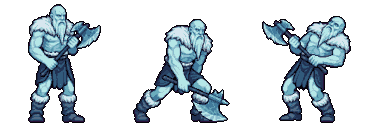
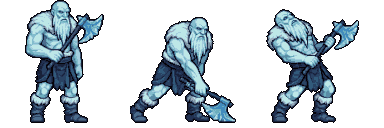
Roster fix: ice_gigas R287 approved (axe stays on the right shoulder; defect 6); full re-rig follows

diff --git a/docs/ACT1_LOG.md b/docs/ACT1_LOG.md
@@ -459,5 +459,6 @@ made with `--paid --max-paid 1` after a dry run.
 | R284 | lich/boss_hurt (1235, key `5062660e8975aace5d8b9754`, `--retry`; ROSTER_FIX_PLAN defect 3: the new `hurt:` text, "the skull head with its ice crown stays upright on the neck ... one head only, the free arm thrown out to the side (never across the face)") | 1 | The identity defect is fixed: **one skull head with the ice crown**, centred on the neck, no helm, the same armour, pauldrons, mantle and glaive; 183 px, lowest row 192, top row 10, x 7-192, a 200x200 cell (no widening), no border pixels, binary alpha, 15 colours, one piece. **Fails review:** the glaive is held the other way round from the idle (the ice blade low on the left, the spearhead up on the right: a 180-degree prop flip the rig cannot bridge), and the pose reads as a turning stride toward the heroes with the mantle streaming back, not a recoil away from them | **rejected**; the one allowed retry follows (seed 1236, `--retry`; still facing right with the chest and skull toward the viewer as in Image 3, leaning back to the left, "the glaive held the same way round as in Image 3, in the same hand, its ice blade low on the right and its spearhead end up on the left") |
 | R285 | lich/boss_hurt (1236, key `3304619948e1b2589d8b5689`, `--retry`, the one allowed retry; still facing right with the chest and skull toward the viewer, leaning back, the glaive held the same way round as in the idle) | 1 | **One skull head with the ice crown**, upright and centred on the neck, the cyan eye lights and toothed jaw readable; the same blackened-iron plate, frozen-wing pauldrons, tattered mantle (blown back to the left) and glaive, **held the same way round as in the idle** (spearhead up on the left, ice blade low on the right, in the image-left hand); leaning back with the free arm thrown out to the side, knees bent, no arm across the face. 169 px (idle 184), lowest row 192, top row 24, x 8-191, **a 200x200 cell** (no widening), no border pixels, binary alpha, 16 colours, one piece. **Cell check (defect 3 (d)):** all five lich keyframes are 200x200, so `pad_keyframes` returns them untouched (grid [200, 200], `bottom_row` 192, as before); `boss_idle`, `boss_attack`, `boss_cast`, `boss_attack_raise` (.png/.json) are byte-identical to HEAD, so their atlas frames cannot change (the integrator's frame-rect diff confirms after the rebuild); all five lich request keys recompute to their approved, cached keys. Nits: the recoil is moderate (an upright lean back rather than a heavy stagger); the free arm reaches toward the heroes' side | **self-approved** (pass R fix, attempt 2 of 2 planned); rig follows (defect 3 rig step, `fix-rig-lich`) |
 | R286 | ice_gigas/monster (1235, key `c9f338aa182ad088aab25d29`, `--retry`, pass-R attempt 2 of 3; ROSTER_FIX_PLAN defect 6: only the `hurt:` text, the axe pinned "up beside his shoulder on the right side of the image") | 1 | A whole new sheet (all three cells regenerate): the frost giant with pale ice-blue skin, an icicle beard, a white fur mantle, a dark blue kilt and now brown fur boots, one ice axe; attack = the blade driven onto the ground in front of the front foot; hurt = thrown back with the axe up beside the image-right shoulder. Heights 119 / 105 / 118, feet on row 122, 128 px cells, no border pixels, binary alpha, 15-16 colours, one piece per cell, `pose_diff` 0.70 / 0.44. **Fails review (the defect again, mirrored):** this idle rests the axe on the **image-left** shoulder (the old idle had it on the right), so the axe head still crosses sides between the idle and the hurt | **rejected**; the last allowed attempt follows (seed 1236, `--retry`; the hurt text made side-neutral: "its ice blade up beside the same shoulder as in the idle cell, the haft running down across his body the same way ... the axe head never crosses over to the other side") |
+| R287 | ice_gigas/monster (1236, key `48646dd0fad693e88a9b4fc0`, `--retry`, pass-R attempt 3 of 3; side-neutral hurt text) | 1 | The frost giant with the ice axe on the **image-right shoulder in idle**, a downward chop onto the ground in front of the front foot in attack, and in hurt a lean back with the axe still upright on the **same (image-right) side**, same hand; heights 123 / 106 / 114, feet on row 122, no border pixels, nothing sliced, one ice axe in every cell | **approved** (orchestrator review, pass R fix); the old rig is invalid (new sheet): full re-rig follows |
 
 **Images used (pass R):** 266 of 300 (build 263 of 285, closed; fix 3; ledger guard: 366 Gemini attempts − N0 100).

diff --git a/docs/ROSTER_LOG.md b/docs/ROSTER_LOG.md
@@ -532,3 +532,4 @@ Images used: 266 of 300 (build 263 of 285, closed at N1 = 363; fix 3 of 37 open,
 | R284 | lich/boss_hurt (1235, key `5062660e8975aace5d8b9754`, `--retry`; ROSTER_FIX_PLAN defect 3: the new `hurt:` text, "the skull head with its ice crown stays upright on the neck ... one head only, the free arm thrown out to the side (never across the face)") | 1 | The identity defect is fixed: **one skull head with the ice crown**, centred on the neck, no helm, the same armour, pauldrons, mantle and glaive; 183 px, lowest row 192, top row 10, x 7-192, a 200x200 cell (no widening), no border pixels, binary alpha, 15 colours, one piece. **Fails review:** the glaive is held the other way round from the idle (the ice blade low on the left, the spearhead up on the right: a 180-degree prop flip the rig cannot bridge), and the pose reads as a turning stride toward the heroes with the mantle streaming back, not a recoil away from them | **rejected**; the one allowed retry follows (seed 1236, `--retry`; still facing right with the chest and skull toward the viewer as in Image 3, leaning back to the left, "the glaive held the same way round as in Image 3, in the same hand, its ice blade low on the right and its spearhead end up on the left") |
 | R285 | lich/boss_hurt (1236, key `3304619948e1b2589d8b5689`, `--retry`, the one allowed retry; still facing right with the chest and skull toward the viewer, leaning back, the glaive held the same way round as in the idle) | 1 | **One skull head with the ice crown**, upright and centred on the neck, the cyan eye lights and toothed jaw readable; the same blackened-iron plate, frozen-wing pauldrons, tattered mantle (blown back to the left) and glaive, **held the same way round as in the idle** (spearhead up on the left, ice blade low on the right, in the image-left hand); leaning back with the free arm thrown out to the side, knees bent, no arm across the face. 169 px (idle 184), lowest row 192, top row 24, x 8-191, **a 200x200 cell** (no widening), no border pixels, binary alpha, 16 colours, one piece. **Cell check (defect 3 (d)):** all five lich keyframes are 200x200, so `pad_keyframes` returns them untouched (grid [200, 200], `bottom_row` 192, as before); `boss_idle`, `boss_attack`, `boss_cast`, `boss_attack_raise` (.png/.json) are byte-identical to HEAD, so their atlas frames cannot change (the integrator's frame-rect diff confirms after the rebuild); all five lich request keys recompute to their approved, cached keys. Nits: the recoil is moderate (an upright lean back rather than a heavy stagger); the free arm reaches toward the heroes' side | **self-approved** (pass R fix, attempt 2 of 2 planned); rig follows (defect 3 rig step, `fix-rig-lich`) |
 | R286 | ice_gigas/monster (1235, key `c9f338aa182ad088aab25d29`, `--retry`, pass-R attempt 2 of 3; ROSTER_FIX_PLAN defect 6: only the `hurt:` text, the axe pinned "up beside his shoulder on the right side of the image") | 1 | A whole new sheet (all three cells regenerate): the frost giant with pale ice-blue skin, an icicle beard, a white fur mantle, a dark blue kilt and now brown fur boots, one ice axe; attack = the blade driven onto the ground in front of the front foot; hurt = thrown back with the axe up beside the image-right shoulder. Heights 119 / 105 / 118, feet on row 122, 128 px cells, no border pixels, binary alpha, 15-16 colours, one piece per cell, `pose_diff` 0.70 / 0.44. **Fails review (the defect again, mirrored):** this idle rests the axe on the **image-left** shoulder (the old idle had it on the right), so the axe head still crosses sides between the idle and the hurt | **rejected**; the last allowed attempt follows (seed 1236, `--retry`; the hurt text made side-neutral: "its ice blade up beside the same shoulder as in the idle cell, the haft running down across his body the same way ... the axe head never crosses over to the other side") |
+| R287 | ice_gigas/monster (1236, key `48646dd0fad693e88a9b4fc0`, `--retry`, pass-R attempt 3 of 3; side-neutral hurt text) | 1 | The frost giant with the ice axe on the **image-right shoulder in idle**, a downward chop onto the ground in front of the front foot in attack, and in hurt a lean back with the axe still upright on the **same (image-right) side**, same hand; heights 123 / 106 / 114, feet on row 122, no border pixels, nothing sliced, one ice axe in every cell | **approved** (orchestrator review, pass R fix); the old rig is invalid (new sheet): full re-rig follows |
